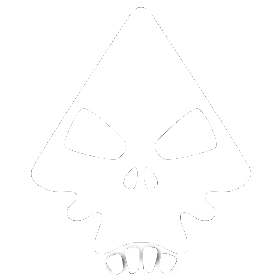
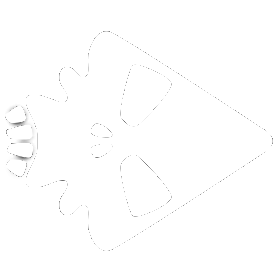
ship's speed regulated

diff --git a/lib/ship.js b/lib/ship.js
@@ -19,6 +19,8 @@
     options.radius = Ship.RADIUS;
     options.vel = options.vel || [0, 0];
     options.color = options.color || randomColor();
+    options.angle = options.angle || 0;
+    options.speed = options.speed || 1;
 
     Asteroids.MovingObject.call(this, options)
   };
@@ -28,21 +30,24 @@
   Asteroids.Util.inherits(Ship, Asteroids.MovingObject);
 
   Ship.prototype.fireBullet = function () {
+
     var norm = Asteroids.Util.norm(this.vel);
 
-    if (norm == 0) {
-      // Can't fire unless moving.
-      return;
-    }
+    // if (norm == 0) {
+    //   // Can't fire unless moving.
+    //   return;
+    // }
 
     var relVel = Asteroids.Util.scale(
-      Asteroids.Util.dir(this.vel),
+      Asteroids.Util.dir([Math.cos(-this.angle*Math.PI/180), Math.sin(-this.angle*Math.PI/180)]),
       Asteroids.Bullet.SPEED
     );
 
     var bulletVel = [
       relVel[0] + this.vel[0], relVel[1] + this.vel[1]
     ];
+
+    // var bulletVel = [Math.cos(this.angle*Math.PI/180), Math.sin(this.angle*Math.PI/180)]
 
     var bullet = new Asteroids.Bullet({
       pos: this.pos,
@@ -59,10 +64,12 @@
     this.vel = [0, 0];
   };
 
-  Ship.prototype.power = function (impulse) {
-    this.vel[0] += impulse[0];
-    this.vel[1] += impulse[1];
-  };
+
+//UBRAT
+  // Ship.prototype.power = function (impulse) {
+  //   this.vel[0] += impulse[0];
+  //   this.vel[1] += impulse[1];
+  // };
 
 //   Ship.prototype.draw = function (ctx) {
 //     var img = new Image();
@@ -75,42 +82,83 @@
 Ship.prototype.draw = function(context) {
   if (Asteroids.turnRight) {
     this.turnRight(context);
-    return
-    }
+    Asteroids.turnRight = false;
+  } else if (Asteroids.turnLeft) {
+    this.turnLeft(context);
+    Asteroids.turnLeft = false;
+  } else {
+
+    var image = new Image();
+    image.src = 'ship.png';
+    var width = 130;
+    var height = 100;
 
 
-  var image = new Image();
-  image.src = 'ship.png';
-  var width = 100;
-  var height = 130;
-  //
-  // context.translate(this.pos[0], this.pos[1]);
-  // context.rotate(10*Math.PI/180);
-  var offset = this.radius + (this.radius / 2)
-  context.drawImage(image, this.pos[0] - offset, this.pos[1] - offset, width, height);
-  // context.rotate(-10*Math.PI/180);
-  // context.translate(-this.pos[0], -this.pos[1]);
+    context.translate(this.pos[0], this.pos[1]);
+    context.rotate(-this.angle*Math.PI/180);
+    context.drawImage(image, -width / 2, -height / 2, width, height);
+    context.rotate(this.angle*Math.PI/180);
+    context.translate(-this.pos[0], -this.pos[1]);
+    //
+    // context.translate(this.pos[0], this.pos[1]);
+    // context.rotate(10*Math.PI/180);
+
+
+    // var offset = this.radius + (this.radius / 2)
+    // context.drawImage(image, this.pos[0] - offset, this.pos[1] - offset, width, height);
+
+
+    // context.rotate(-10*Math.PI/180);
+    // context.translate(-this.pos[0], -this.pos[1]);
 
 
 
-  // c.rotate(30*Math.PI/180);
-  // var offset = this.radius + (this.radius / 2)
-  // c.drawImage(image, this.pos[0], this.pos[1]);
+    // c.rotate(30*Math.PI/180);
+    // var offset = this.radius + (this.radius / 2)
+    // c.drawImage(image, this.pos[0], this.pos[1]);
+  }
 
 };
 
 Ship.prototype.turnRight = function(context) {
   var image = new Image();
   image.src = 'ship.png';
-  var width = image.width;
-  var height = image.height;
+  var width = 130;
+  var height = 100;
 
   context.translate(this.pos[0], this.pos[1]);
   context.rotate(10*Math.PI/180);
   context.drawImage(image, -width / 2, -height / 2, width, height);
   context.rotate(-10*Math.PI/180);
   context.translate(-this.pos[0], -this.pos[1]);
-  // this.vel =
+  this.angle -= 10
+};
+
+Ship.prototype.turnLeft = function(context) {
+  var image = new Image();
+  image.src = 'ship.png';
+  var width = 100;
+  var height = 130;
+
+  context.translate(this.pos[0], this.pos[1]);
+  context.rotate(-10*Math.PI/180);
+  context.drawImage(image, -width / 2, -height / 2, width, height);
+  context.rotate(10*Math.PI/180);
+  context.translate(-this.pos[0], -this.pos[1]);
+  this.angle += 10
+};
+
+Ship.prototype.moveUp = function(context) {
+  if (this.speed < 20) { this.speed += 1 }
+  this.vel = [(Math.cos(-this.angle*Math.PI/180))*this.speed, (Math.sin(-this.angle*Math.PI/180))*this.speed]
+  this.move()
+};
+
+Ship.prototype.moveDown = function(context) {
+  if (this.speed > 1) { this.speed -= 1 }
+  this.vel = [this.vel[0]/1.3, this.vel[1]/1.3]
+  // this.vel = [(-Math.cos(-this.angle*Math.PI/180))*this.speed, (-Math.sin(-this.angle*Math.PI/180))*this.speed]
+  this.move()
 }
 
 

diff --git a/lib/gameView.js b/lib/gameView.js
@@ -37,14 +37,15 @@
       var move = GameView.MOVES[k];
       key(k, function (e) {
         e.preventDefault();
-
-        if (e.keyCode === 38 || e.keyCode === 40) {
-        ship.power(move);
-      } else if (e.keyCode === 39) {
+       if (e.keyCode === 39) {
         Asteroids.turnRight = true
         // ship.turnRight(ctx)
       } else if (e.keyCode === 37) {
-        ship.turnLeft(ctx)
+        Asteroids.turnLeft = true
+      } else if (e.keyCode === 38) {
+        ship.moveUp(ctx)
+      } else if (e.keyCode === 40) {
+        ship.moveDown(ctx)
       }
       });
     });

diff --git a/index.html b/index.html
@@ -1,9 +1,17 @@
 <html>
   <head>
     <title>Asteroids</title>
+    <meta charset="utf-8">
   </head>
 
   <body>
+    <section class="opening">
+      <h1>keeping up with ASTEROIDS</h1>
+      <p>press any key to start</p>
+    </section>
+
+    <section class="lives">♥ ♥ ♥ ♥ ♥</section>
+
     <canvas id="game-canvas"></canvas>
 
     <script type="application/javascript" src="vendor/keymaster.js"></script>

diff --git a/lib/movingObject.js b/lib/movingObject.js
@@ -10,6 +10,10 @@
     this.color = options.color;
     this.game = options.game;
     this.sizze = options.sizze;
+    this.angle = options.angle;
+    this.speed = options.speed;
+
+    //do i need speed angle??
   };
 
 
